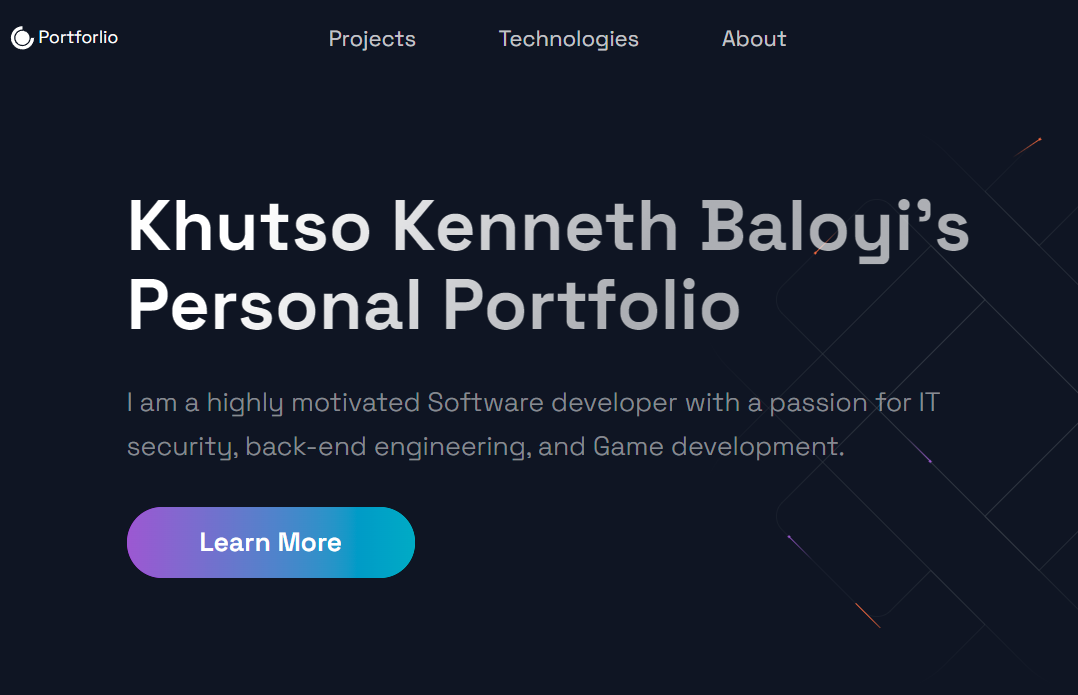
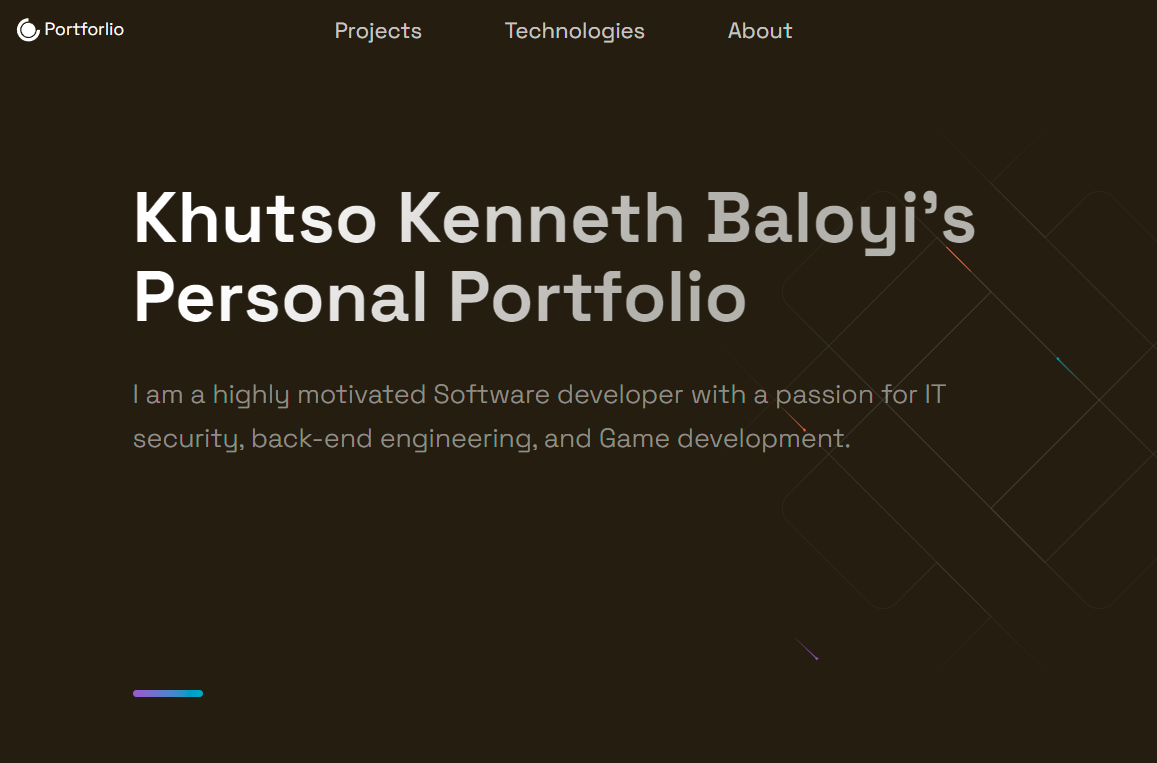
new build

diff --git a/src/constants/constants.js b/src/constants/constants.js
@@ -4,7 +4,7 @@ export const projects = [
     description: "This mobile application enables grocery shoppers to monitor their grocery list's price differences from their favourite retail stores every month",
       image: '/images/retailprice.png',
       tags: ['React Native', 'Express', 'Postgres', 'Node'],
-    source: 'https://google.com',
+    source: 'https://drive.google.com/file/d/1OXlniTGwvBsUKSVjMEWv-zTn97swBivg/view?usp=sharing',
     visit: 'https://github.com/khutso-baloyi/RetailPrice',
     id: 0,
   },

diff --git a/src/components/TimeLine/TimeLineStyles.js b/src/components/TimeLine/TimeLineStyles.js
@@ -3,7 +3,7 @@ import styled from 'styled-components'
 
 export const CarouselContainer = styled.ul`
   max-width: 1040px;
-  background: #0F1624;
+  background: #241D0F;
   padding: 0rem;
   list-style:none;
   display: flex;
@@ -40,7 +40,7 @@ export const CarouselMobileScrollNode = styled.div`
 `
 
 export const CarouselItem = styled.div`
-  background: #0F1624;
+  background: #241D0F;
   border-radius: 3px;
   max-width: 196px;
 

diff --git a/src/components/NavDropDown/NavDropDown.js b/src/components/NavDropDown/NavDropDown.js
@@ -61,14 +61,14 @@ export const DropDownTextContainer = styled.div`
 `
 
 export const DropDownItemTitle = styled.h2`
-  color: #0f1624;
+  color: #241D0F;
   font-size: 18px;
   line-height: 26px;
   text-align: start;
 `
 
 export const DropDownItemDesc = styled.p`
-  color: #0f1624;
+  color: #241D0F;
   opacity: 0.5;
   font-size: 14px;
   line-height: 22px;

diff --git a/_next/static/chunks/pages/_app.js b/_next/static/chunks/pages/_app.js
@@ -1115,7 +1115,7 @@ __webpack_require__.r(__webpack_exports__);
   // Colors for layout
   colors: {
     primary1: "hsl(204,23.8%,95.9%)",
-    background1: "#0F1624",
+    background1: "#241D0F",
     accent1: "hsl(34.9,98.6%,72.9%)",
     button: "hsl(205.1,100%,36.1%)",
     background2: "hsl(232.7,27.3%,23.7%)"

diff --git a/src/themes/default.js b/src/themes/default.js
@@ -7,7 +7,7 @@ export default {
   // Colors for layout
   colors: {
     primary1: "hsl(204,23.8%,95.9%)",
-    background1: "#0F1624",
+    background1: "#241D0F",
     accent1: "hsl(34.9,98.6%,72.9%)",
     button: "hsl(205.1,100%,36.1%)",
     background2: "hsl(232.7,27.3%,23.7%)",

diff --git a/src/styles/GlobalComponents/index.js b/src/styles/GlobalComponents/index.js
@@ -136,7 +136,7 @@ export const SecondaryBtn = styled.button`
   }
 
   &:hover {
-    color: #0f1624;
+    color: ##241D0F;
     background: #fff;
     border: 1px solid #fff;
   }
